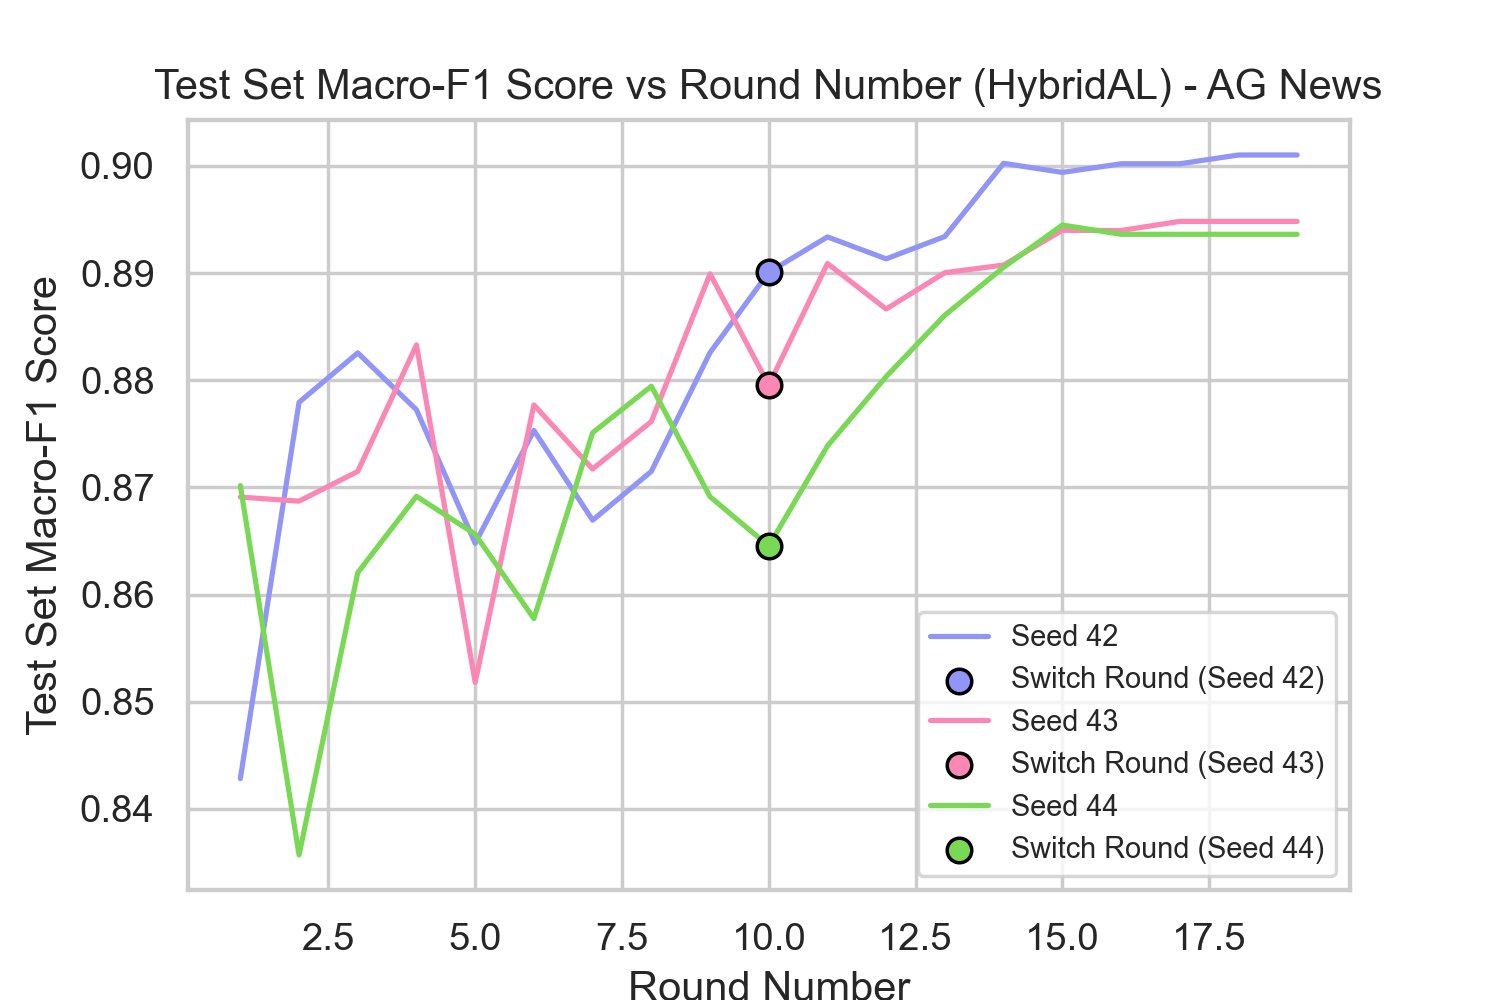
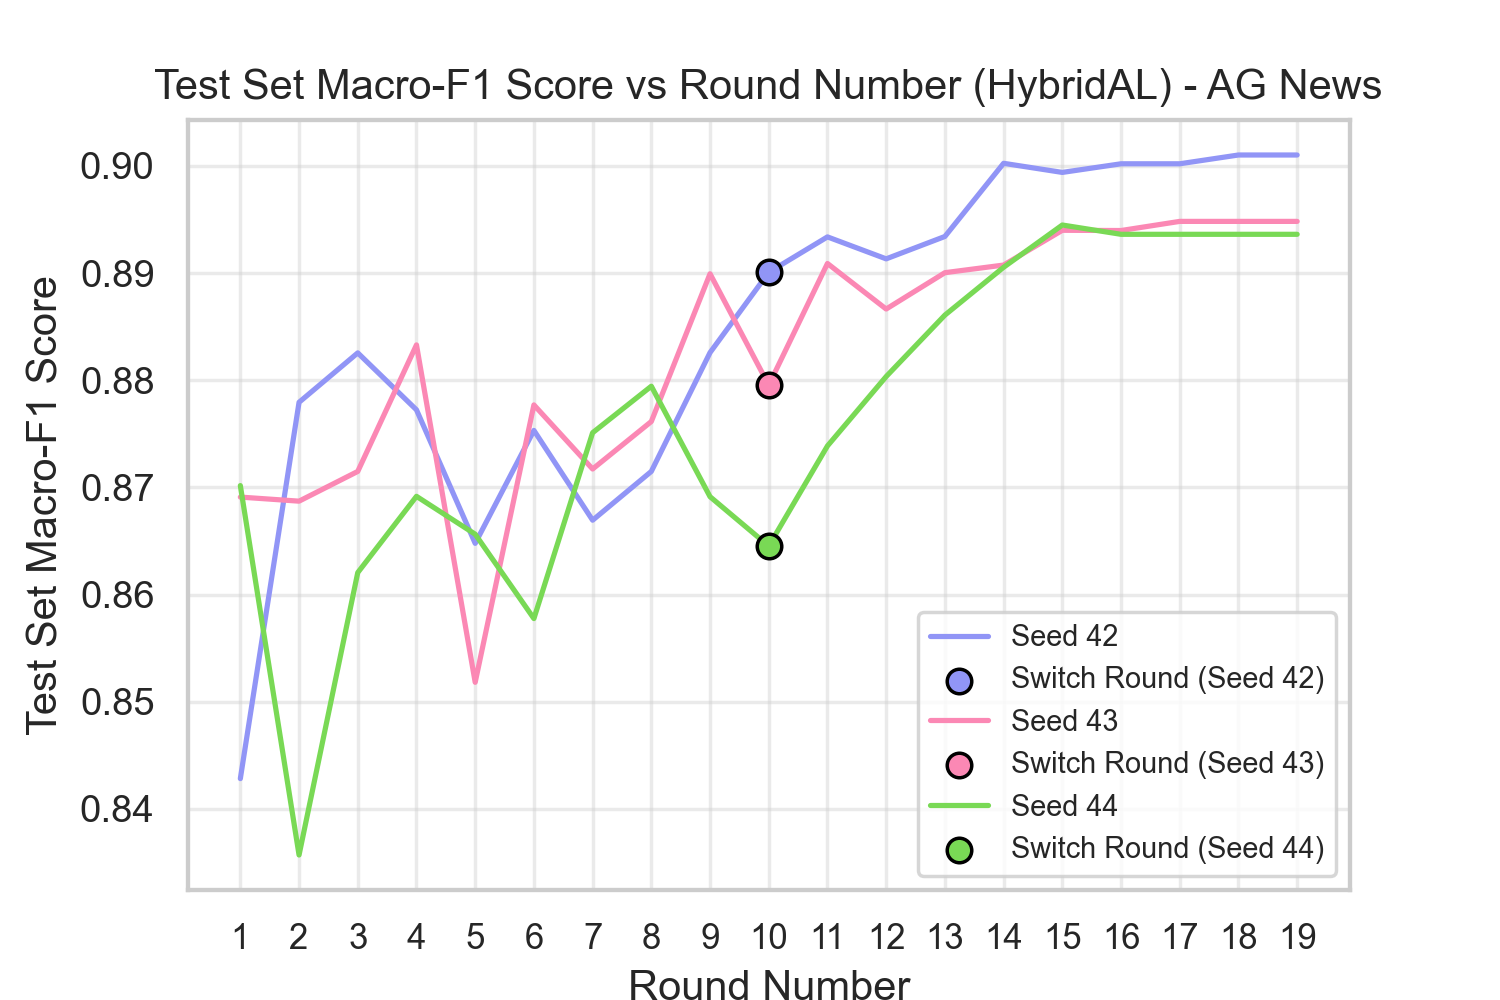
Grid tweaks in plot_f1_vs_round_switch function in figure_plotter.py

diff --git a/figure_plotter.py b/figure_plotter.py
@@ -398,6 +398,7 @@ def plot_f1_vs_round_switch(experiments_df: pd.DataFrame, best_hybrid_hyper: dic
         cmap = ListedColormap(['#9195F6', '#FB88B4', '#79d955'])
 
         color_i = 0
+        total_rounds = []
         for j in experiments_df['seed'].unique():
             info = filter_experiments_df(
                 experiments_df,
@@ -415,6 +416,7 @@ def plot_f1_vs_round_switch(experiments_df: pd.DataFrame, best_hybrid_hyper: dic
             color = cmap.colors[color_i]
             color_i += 1
             switch_round = switch_rounds[dataset][j]
+            total_rounds.append(info['total_rounds'].values[0])
 
             plt.plot(range(1, len(f1_scores) + 1), f1_scores, label=label, color=color)
             plt.scatter(switch_round, f1_scores[switch_round - 1], color=color, s=50, edgecolor='black', zorder=5,
@@ -422,9 +424,11 @@ def plot_f1_vs_round_switch(experiments_df: pd.DataFrame, best_hybrid_hyper: dic
 
         plt.xlabel('Round Number')
         plt.ylabel('Test Set Macro-F1 Score')
+        plt.xticks(range(1, max(total_rounds) + 1), fontsize=10)
         plt.title(f'Test Set Macro-F1 Score vs Round Number (HybridAL) - {dataset_names[
             dataset]}')
         plt.legend(fontsize='x-small')
+        plt.grid(alpha=0.4)
         if save_dir_path is not None:
             plt.savefig(os.path.join(save_dir_path, f'f1_vs_round_hybrid_{dataset}.png'), dpi=dpi)
         plt.show()
